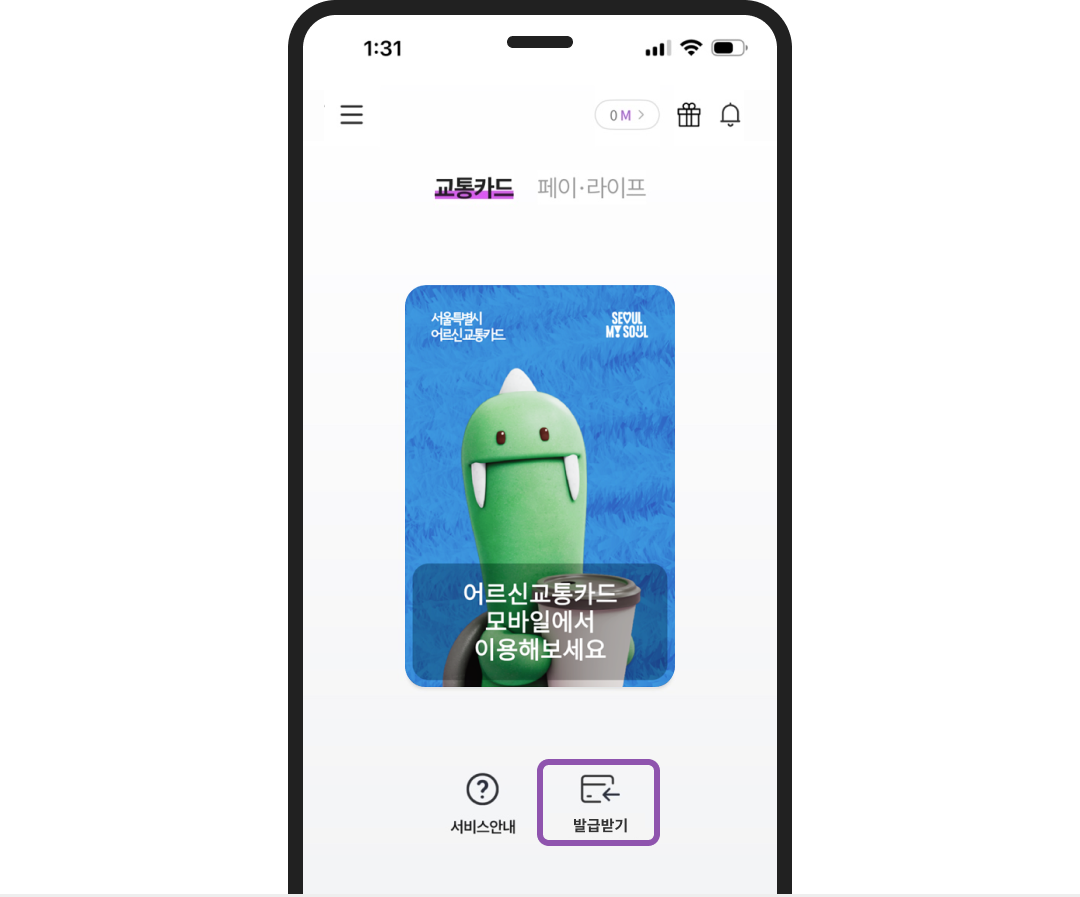
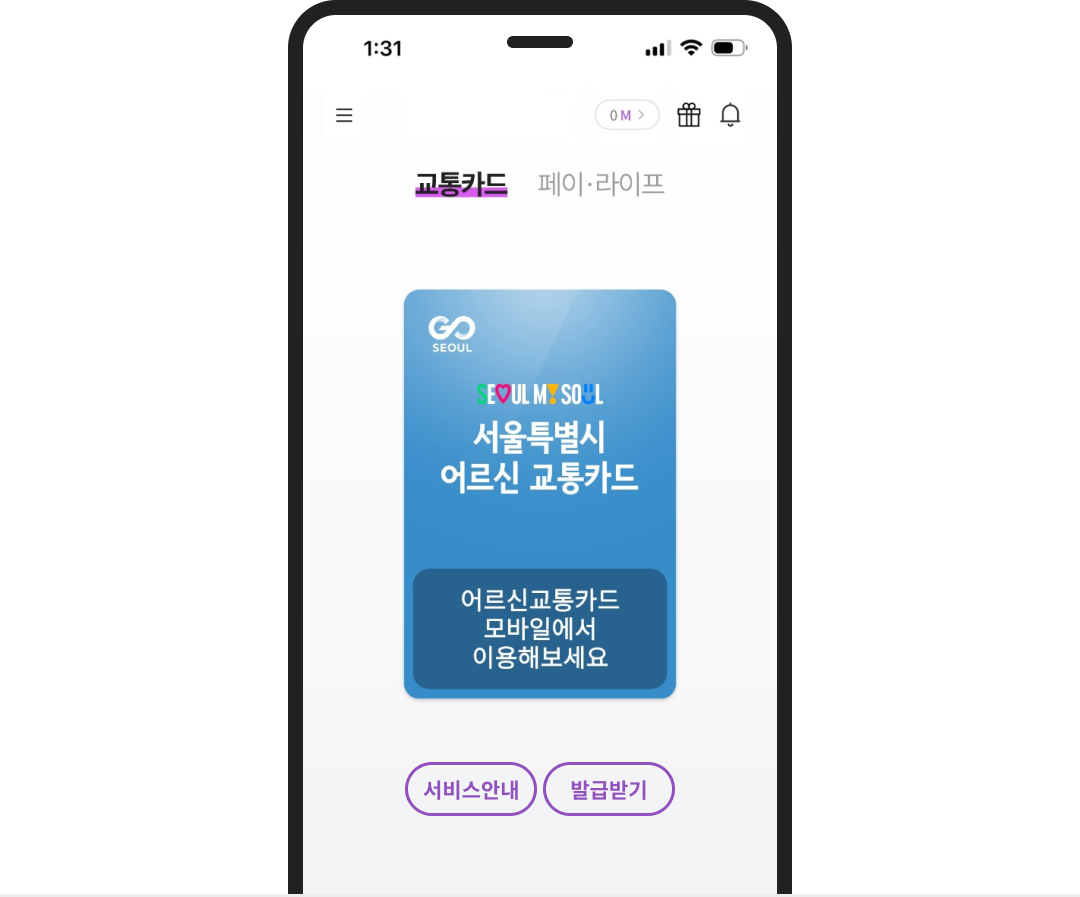
커밋4

diff --git a/index.html b/index.html
@@ -88,9 +88,9 @@
     .mt4{margin-top: 4px !important;}
     .mt12{margin-top: 12px !important;}
     .t_info img{vertical-align: top;}
-    .t_link{line-height: 1;}
+    .t_link{line-height: 1; margin:4px 0;}
     .t_center{text-align: center;}
-    .t_link a{font-size: 13px; color: #2768F6; text-decoration: underline; word-break: break-all;}
+    .t_link a{display:block; width:100%; text-align: center; padding:9.25px 0; font-size: 13px; color: #4d4d4d; border-radius: 999px; border:1px solid #d9d9d9; word-break: break-all;}
     .t_info .tab-content { padding: 24px 16px 40px; background: #fff;}
     .t_info .tab-panel { display: none; }
     .t_info .tab-panel.active { display: block; }
@@ -203,7 +203,7 @@
                                 모바일 어르신교통카드 발급자격을 충족하지 못한 경우 발급이 불가합니다.
                                 <br/>
                                 - 발급자격요건 관련 문의는 아래 링크를 참고해 주시기 바랍니다.
-                                <p class="t_link"><a href="https://news.seoul.go.kr/traffic/archives/1791" target="_blank" >https://news.seoul.go.kr/traffic/archives/1791</a></p>
+                                <p class="t_link"><a href="https://news.seoul.go.kr/traffic/archives/1791" target="_blank" >어르신 교통카드 상세 안내</a></p>
                             </li>
                             <li>1인당 1장의 어르신교통카드만 발급 가능합니다.(실물카드와/모바일카드의 중복 발급 불가)</li>
                             <li>실물 어르신교통카드 이용 중 모바일 어르신 교통카드를 발급 시 실물 어르신 교통카드는 이용 정지되며, 모바일 어르신 교통카드 해지 후에도 기존에 사용하시던 실물카드는 사용이 불가능합니다.</li>
@@ -301,7 +301,7 @@
                             즉시 신고하셔야 최대한 불이익을 예방하실 수 있습니다.</p>
                         <div class="check_con mt12">
                             <p class="check_txt">분실/도난 신고는 아래 페이지를 통해<br />진행해 주시기 바랍니다.</p>
-                            <p class="t_link t_center"><a  href="https://tmpay.tmoney.co.kr:1443/tmpay/readTmpayLossReport2.do" target="_blank">https://tmpay.tmoney.co.kr:1443/tmpay/readTmpayLossReport2.do</a></p>
+                            <p class="t_link t_center"><a  href="https://tmpay.tmoney.co.kr:1443/tmpay/readTmpayLossReport2.do" target="_blank">분실/도난 신고 홈페이지</a></p>
                         </div>
                     </li>
                 </ul>
